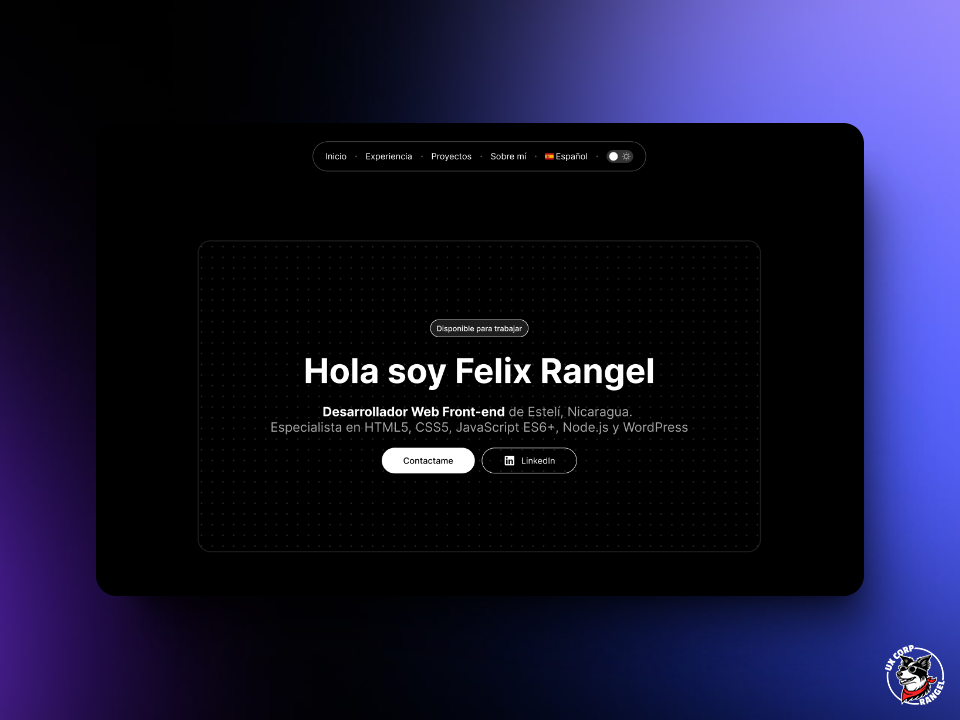
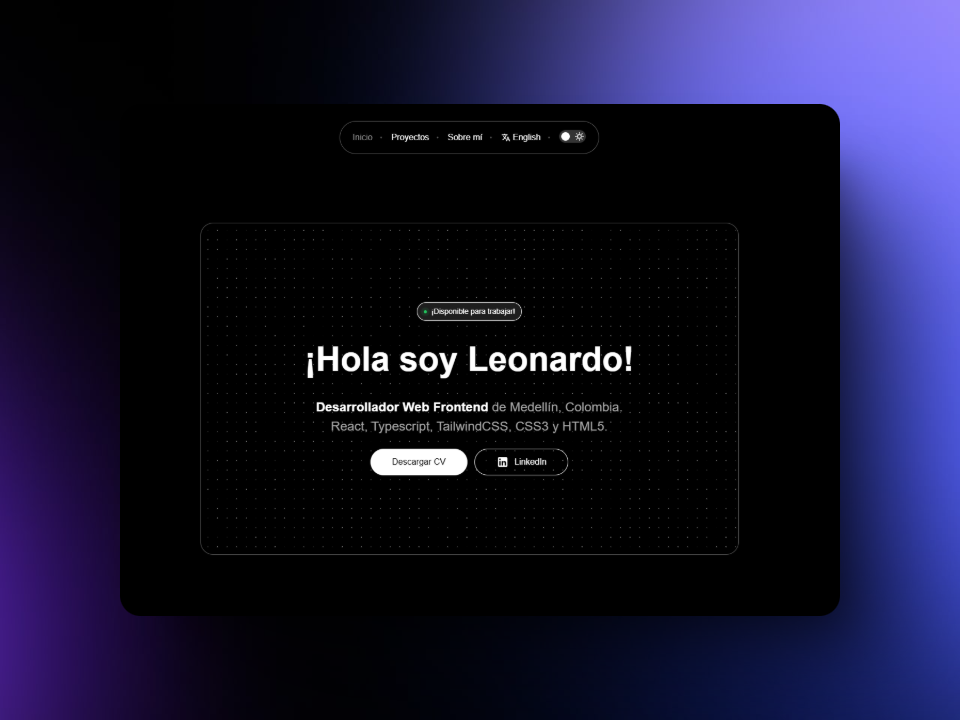
Update README

diff --git a/README.md b/README.md
@@ -1,98 +1,32 @@
+# 🚀 Portafolio de Leonardo Salazar
+
 ![Unicorn Sparkle](./assets/unicorn-sparkle.png)
 
-[![Lighthouse Performance Badge](./performance/lighthouse_performance.svg)](https://pagespeed.web.dev/analysis/https-unicorn-sparkle-web-app/cnpanzebex?form_factor=desktop)
-[![Lighthouse Accessibility Badge](./performance/lighthouse_accessibility.svg)](https://pagespeed.web.dev/analysis/https-unicorn-sparkle-web-app/cnpanzebex?form_factor=desktop)
-[![Lighthouse Best Practices Badge](./performance/lighthouse_best-practices.svg)](https://pagespeed.web.dev/analysis/https-unicorn-sparkle-web-app/cnpanzebex?form_factor=desktop)
-[![Lighthouse SEO Badge](./performance/lighthouse_seo.svg)](https://pagespeed.web.dev/analysis/https-unicorn-sparkle-web-app/cnpanzebex?form_factor=desktop)
+Bienvenido a mi portafolio de desarrollo web. Aquí encontrarás mis proyectos, tecnologías favoritas y cómo contactarme.
 
-# 🦄 Unicorn Sparkle
+## 🌟 Sobre Mí
+Actualmente estoy finalizando mi carrera como técnico en programación de software. Tengo un enfoque en desarrollo Frontend y tengo habilidades básicas de diseño web. También estoy explorando un poco sobre Backend.
 
-**Unicorn Sparkle** es la plantilla de portafolio definitiva para desarrolladores que quieren brillar. Combina diseño moderno y funcionalidad mágica para mostrar tus proyectos y habilidades. ¡Destaca con estilo y haz que tu portafolio sea inolvidable!
+## 🛠 Tecnologías
+Algunas de las herramientas y tecnologías que utilizo:
 
-[![Diseño de Unicorn Sparkle](https://img.shields.io/badge/Figma-F24E1E?style=for-the-badge&logo=figma&logoColor=white)](https://www.figma.com/design/RPSa9nHARMmnTemhrGuTCZ/Portafolio-dev?node-id=44-1034&t=dIZVva7mcSSduV6j-1)
-[![Sitio web de Unicorn Sparkle](https://img.shields.io/website?url=https%3A%2F%2Funicorn-sparkle.web.app&style=for-the-badge)](https://unicorn-sparkle.web.app)
+**Frontend:** React, Typescript, TailwindCSS
+**Backend:** (estudiando): Java, Spring
+**Base de datos:** (estudiando): SQL
+**Otras herramientas:** Figma, Supabase, AWS(en formación)
 
-## 👀 Características
+## 🚀 Cómo Clonar este Repositorio
 
-- 🚀 Última versión de Astro.
-- ✅ ESLint y Prettier configurados.
-- 🌐 Túneles listos.
-- 🌎 Internacionalización lista (i18n).
-- ⚡ Enfoque en el rendimiento.
-- ⚙ Enfoque SEO.
-- 🖼 Procesamiento de imágenes.
-- ✨ Compatibilidad con iconos SVG.
-- 🪄 Transiciones de vista entre documentos ([referencia](https://developer.chrome.com/docs/web-platform/view-transitions/cross-document)).
+Si deseas clonar este repositorio, utiliza el siguiente comando en tu terminal:
 
-> [!NOTE]
-> Unicorn Sparkle fue generado con [astro-templates](https://github.com/felixicaza/astro-templates).
-
-## 🤔 ¿Cómo usar?
-
-Para utilizar la plantilla **Unicorn Sparkle** puedes copiar y ejecutar el siguiente comando en tu terminal:
-
-Con NPM:
-
-```bash
-npm create astro@latest -- --template UXCorpRangel/portfolios-dev/unicorn-sparkle
+```sh
+git clone https://github.com/developerleonardo/portfolio-leonardo.git
 ```
 
-Con PNPM:
+## Agradecimientos
+Quisiera dar un agradecimiento muy especial a [Ana Rangel](https://www.linkedin.com/in/ux-ana-rangel/) y [Felix Icaza](https://felixicaza.com/) por el diseño de este portafolio y la plantilla proporcionada para su edición.
 
-```bash
-pnpm create astro@latest -- --template UXCorpRangel/portfolios-dev/unicorn-sparkle
-```
+## 📬 Contacto
+Si te interesa colaborar o tienes alguna pregunta, puedes encontrarme en:
 
-Luego entra en la carpeta de tu portafolio, instala las dependencias y ¡listo! 🎉.
-
-## 🛠 Estructura del proyecto
-
-- [public/favicons/](./public/favicons/): Contiene los archivos de favicon utilizados en la aplicación.
-
-- [public/media/](./public/media/): Almacena archivos de medios como videos que son utilizados en la aplicación.
-
-- [public/og/](./public/og/): Esta carpeta almacena las imágenes Open Graph que son utilizadas para previsualizaciones cuando la página es compartida en redes sociales.
-
-- [src/components/](./src/components/): Contiene los componentes reutilizables que pueden ser usados en diferentes partes de la aplicación.
-
-- [src/data/](./src/data/): Esta carpeta almacena los datos estáticos o archivos que contienen la información que la aplicación necesita.
-
-- [src/icons/](./src/icons/): Incluye los íconos utilizados en la aplicación.
-
-- [src/images/](./src/images/): Contiene todas las imágenes que son utilizadas en la aplicación, ya sean para fondos, gráficos u otros elementos visuales.
-
-- [src/layouts/](./src/layouts/): Almacena los componentes de disposición general de la aplicación, como estructuras de páginas completas para a mantener una consistencia visual en diferentes páginas.
-
-- [src/locales/](./src/locales/): Carpeta destinada a los archivos de localización o internacionalización.
-
-- [src/pages/](./src/pages/): Contiene las secciones principales de cada página de la aplicación. Por ejemplo, [\_home](./src/pages/_home/) contiene las secciones de la página de inicio.
-
-- [src/routes/](./src/routes/): En esta carpeta se gestionan las rutas de la aplicación.
-
-- [src/scripts/](./src/scripts/): Contiene los scripts adicionales necesarios para la funcionalidad del proyecto. Estos scripts pueden incluir utilidades, funciones auxiliares o cualquier lógica que no esté directamente relacionada con la UI.
-
-- [src/styles/](./src/styles/): Almacena los archivos de estilos que definen la apariencia visual de la aplicación. Aquí se definen colores, tipografías, márgenes, entre otros elementos visuales.
-
-## 📦 Dependencias
-
-Descubre las principales integraciones de Astro utilizadas en este proyecto:
-
-- [@astrolicious/i18n](https://www.npmjs.com/package/@astrolicious/i18n): Es una solución de internacionalización para proyectos Astro. Facilita la creación de sitios multilingües, permitiendo gestionar múltiples idiomas y traducir contenido.
-
-- [@playform/compress](https://www.npmjs.com/package/@playform/compress): Es una herramienta que se enfoca en la compresión de activos, como imágenes, scripts y estilos, durante el proceso de construcción.
-
-- [astro-compressor](https://www.npmjs.com/package/astro-compressor): Es una integración que se encarga de comprimir los archivos a Brotli y Gzip durante el proceso de build.
-
-- [astro-icon](https://www.npmjs.com/package/astro-icon): Es una integración que facilita la gestión e inserción de íconos SVG en tu proyecto de Astro.
-
-- [astro-seo-schema](https://www.npmjs.com/package/astro-seo-schema): es una integración que genera automáticamente datos estructurados de esquema ([schema.org](https://schema.org/)) para tu sitio web de Astro.
-
-- [astro-sitemap](https://www.npmjs.com/package/astro-sitemap): Genera automáticamente un sitemap XML para tu sitio web de Astro.
-
-- [astro-tunnel](https://www.npmjs.com/package/astro-tunnel): Permite exponer localmente tu proyecto de Astro a través de una URL pública.
-
-- [sanitize.css](https://www.npmjs.com/package/sanitize.css): Es una hoja de estilos que ofrece un reinicio (reset) y una normalización de los estilos CSS por defecto en los navegadores. Garantiza una apariencia más consistente entre distintos navegadores, eliminando las diferencias en estilos por defecto, lo que permite un desarrollo más predecible y coherente de la UI.
-
----
-
-Diseñado con ❤ por [Ana Rangel](https://www.linkedin.com/in/ux-ana-rangel) y desarrollado con 💙 por [Felix Icaza](https://felixicaza.com).
+💼 [LinkedIn](https://www.linkedin.com/in/leonardo-salazar-serna/)
